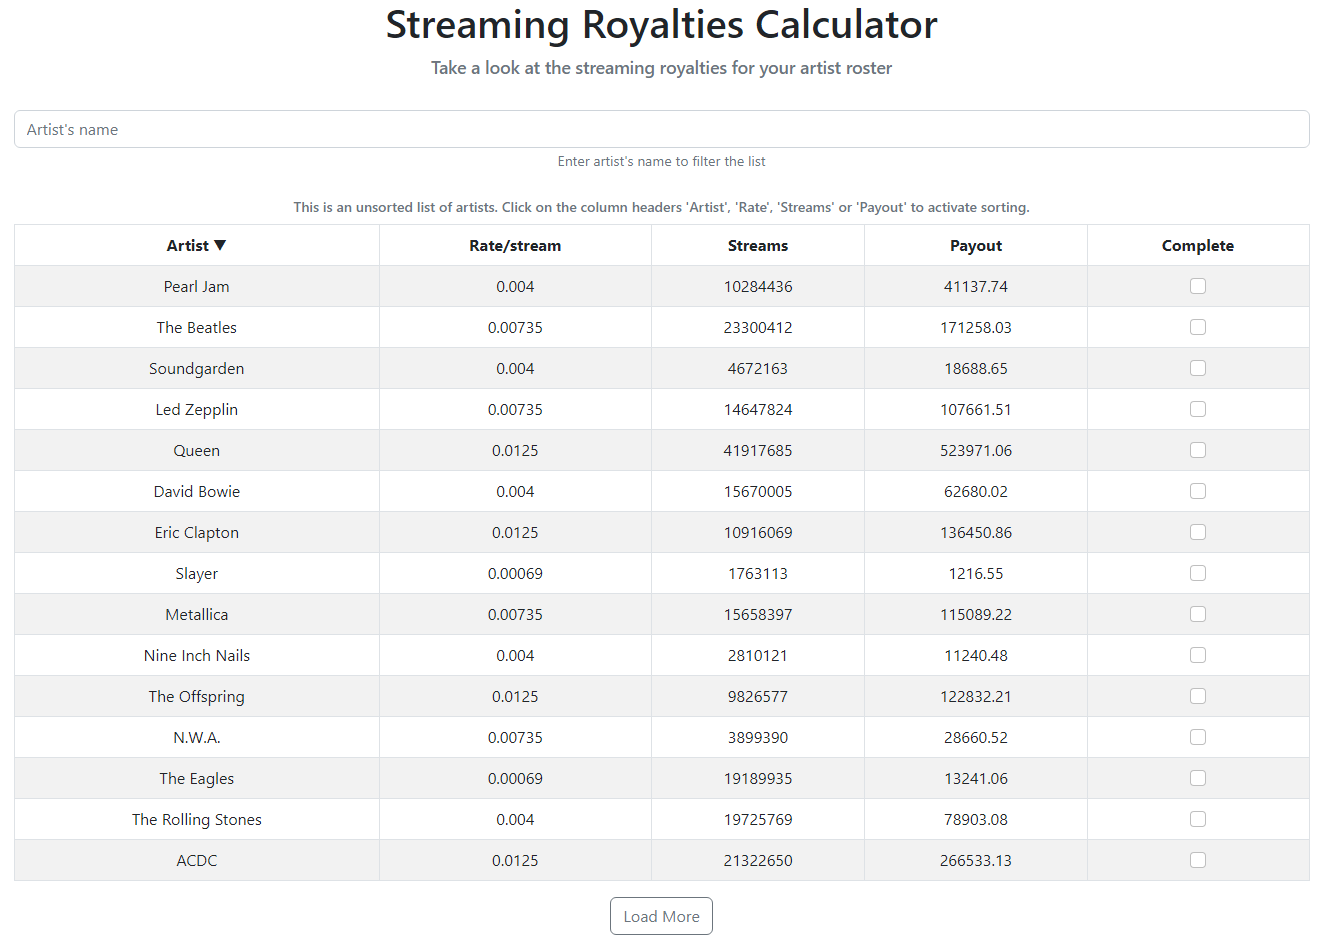
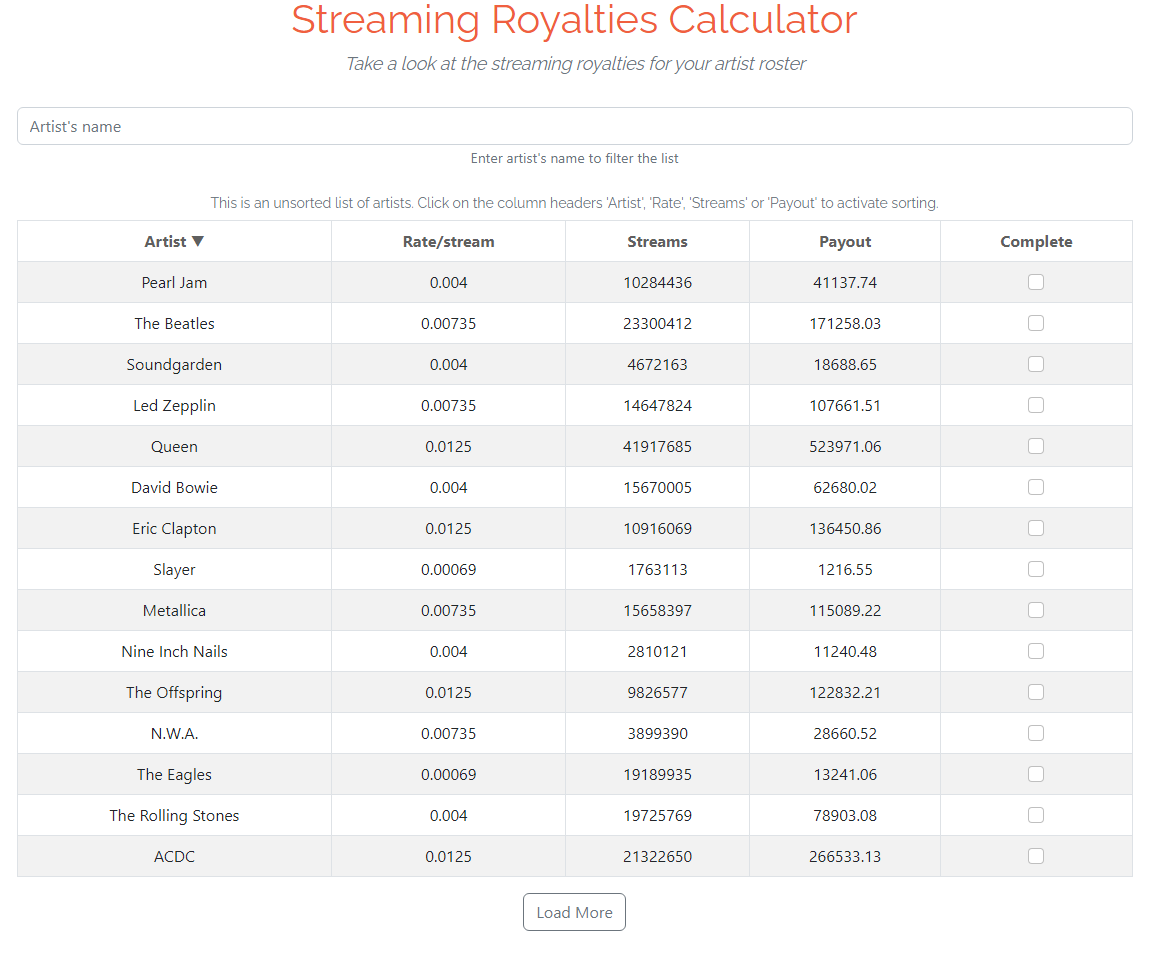
Added some styling and updated the screenshot

diff --git a/client/src/index.css b/client/src/index.css
@@ -1,15 +1,29 @@
-body {
-  margin: 0;
-  font-family: -apple-system, BlinkMacSystemFont, 'Segoe UI', 'Roboto', 'Oxygen',
-    'Ubuntu', 'Cantarell', 'Fira Sans', 'Droid Sans', 'Helvetica Neue',
-    sans-serif;
-  -webkit-font-smoothing: antialiased;
-  -moz-osx-font-smoothing: grayscale;
+body, html {
+  width: 100%;
+  height: 100%;
 }
 
-code {
-  font-family: source-code-pro, Menlo, Monaco, Consolas, 'Courier New',
-    monospace;
+body {
+font-family: 'Raleway', Arial, sans-serif;
+-webkit-tap-highlight-color: #222222;
+-webkit-font-smoothing: antialiased;
+-moz-osx-font-smoothing: grayscale;
+}
+
+h1, h2, h3, h4, h5, h6 {
+font-family: 'Raleway', Arial, sans-serif;
+}
+
+h5 {
+font-style: italic;
+}
+
+h1 {
+  color: #F05F40;
+}
+
+th {
+  color: rgb(95, 95, 95);
 }
 
 .footer {

diff --git a/client/public/index.html b/client/public/index.html
@@ -3,6 +3,8 @@
   <head>
     <meta charset="utf-8" />
     <link rel="icon" href="%PUBLIC_URL%/favicon.ico" />
+    <!--Google Font-->
+    <link href="https://fonts.googleapis.com/css?family=Raleway" rel="stylesheet" type="text/css">
     <meta name="viewport" content="width=device-width, initial-scale=1" />
     <meta name="theme-color" content="#000000" />
     <meta

diff --git a/client/src/App.js b/client/src/App.js
@@ -7,7 +7,6 @@ import Button from 'react-bootstrap/Button';
 import axios from 'axios';
 
 import { API_BASE_URL } from './config';
-import './App.css';
 
 function App() {
   const [artists, setArtists] = useState([]);
